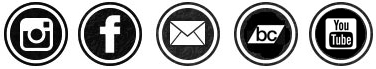
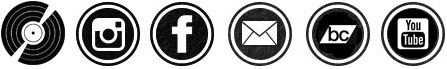
pictures
few updates

diff --git a/index.html b/index.html
@@ -29,9 +29,9 @@ body {
 <body>
 <table width="100%" border="0" align="center" cellpadding="5" cellspacing="5">
   <tr>
-    <td align="center"><img src="custody_seiska_kansi.jpg" width="280" height="280" alt=""/><h2>
-      <strong>Blistered Soul / Whatever We Decide 
-        7&quot; out on May 20th 2016</strong><br />
+    <td align="center"><img src="12_cover_custody.jpg" width="452" height="452" alt=""/>
+    <h2>
+      <strong>New full length album coming!</strong><br />
       <!-- Begin MailChimp Signup Form -->
       
     </h2>
@@ -41,10 +41,10 @@ body {
 </form>
       </div>
       
-      <!--End mc_embed_signup--></td>
+    <!--End mc_embed_signup--></td>
   </tr>
   <tr>
-    <td width="100%" align="center" valign="middle"><img src="some_buttons_custody.jpg" alt="Find CUSTODY rock on these outlets as well" width="376" height="69" border="0" usemap="#Map" /></td>
+    <td width="100%" align="center" valign="middle"><img src="some_buttons_custody.jpg" alt="Find CUSTODY rock on these outlets as well" width="447" height="69" border="0" usemap="#Map" /></td>
   </tr>
   <tr>
     <td align="center" valign="baseline"><h2>Upcoming shows: </h2>
@@ -71,11 +71,12 @@ body {
 </table>
 <br />
 <map name="Map" id="Map">
-  <area shape="circle" coords="35,34,30" href="https://instagram.com/custodypunk/" target="_blank" />
-  <area shape="circle" coords="109,34,29" href="https://www.facebook.com/custodymusic" target="_blank" />
-  <area shape="circle" coords="187,34,31" href="mailto:custodypunk@gmail.com" />
-  <area shape="circle" coords="267,35,31" href="https://custody.bandcamp.com/" target="_blank" />
-  <area shape="circle" coords="340,34,31" href="https://www.youtube.com/channel/UC58CuetMmRM2Lavi_rQslxA" target="_blank" alt="Custody - Video chanel" />
+ <area shape="circle" coords="33,33,30" href="https://www.discogs.com/artist/4697325-Custody" target="_blank" />
+  <area shape="circle" coords="108,34,30" href="https://instagram.com/custodypunk/" target="_blank" />
+  <area shape="circle" coords="181,34,29" href="https://www.facebook.com/custodymusic" target="_blank" />
+  <area shape="circle" coords="259,33,31" href="mailto:custodypunk@gmail.com" />
+  <area shape="circle" coords="336,34,31" href="https://custody.bandcamp.com/" target="_blank" />
+  <area shape="circle" coords="412,34,31" href="https://www.youtube.com/channel/UC58CuetMmRM2Lavi_rQslxA" target="_blank" alt="Custody - Video chanel" />
 </map>
 </body>
 </html>
